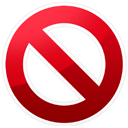
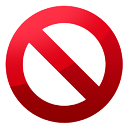
#19 #20 browser/page action+

diff --git a/fontblocker.background.js b/fontblocker.background.js
@@ -1,3 +1,10 @@
+function setPageActionIcon(tabId, disabled) {
+	var icon = disabled ? '128x128-disabled' : '128x128';
+	chrome.pageAction.setIcon({
+		tabId: tabId,
+		path: chrome.runtime.getURL('images/' + icon + '.png'),
+	});
+}
 
 // Context menu: BLOCK ALWAYS
 chrome.contextMenus.create({
@@ -27,28 +34,17 @@ chrome.contextMenus.create({
 	}
 });
 
-// Context menu: (UN)GLIMPSE ON PAGE
-chrome.contextMenus.create({
-	"title": '(Un)glimpse blocked fonts',
-	"contexts": ["page_action"],
-	"onclick": function(info, tab) {
-		chrome.tabs.sendMessage(tab.id, {glimpseFonts: true}, function(data) {
-			// Whatever
-		});
-	}
-});
-
 // Show page action
 chrome.runtime.onMessage.addListener(function(msg, sender, sendResponse) {
 	if ( msg && msg.fontsBlocked ) {
+		setPageActionIcon(sender.tab.id);
 		chrome.pageAction.show(sender.tab.id);
 	}
 });
 
 // Click on page action
 chrome.pageAction.onClicked.addListener(function(tab) {
-	var url = chrome.runtime.getURL('options/options.html');
-	chrome.tabs.create({
-		url: url + '#' + fb.host(tab.url),
+	chrome.tabs.sendMessage(tab.id, {glimpseFonts: true}, function(data) {
+		setPageActionIcon(tab.id, data.disabled);
 	});
 });

diff --git a/options/updates.js b/options/updates.js
@@ -90,7 +90,7 @@ updates = [
 					chrome.storage.local.remove('fonts');
 					next();
 				});
-				});
+			});
 		});
 	}
 
